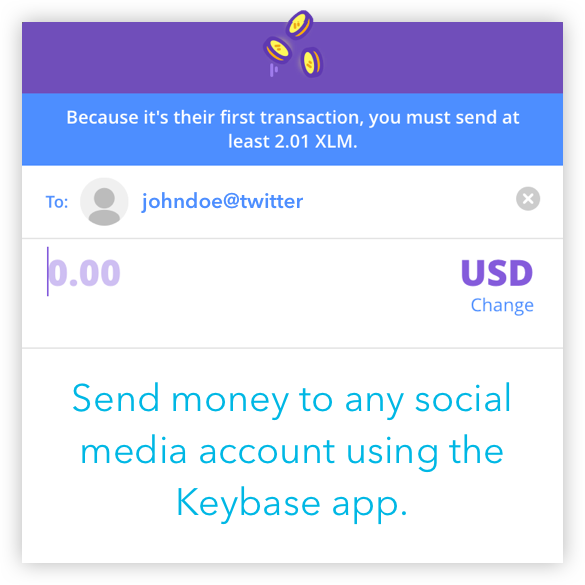
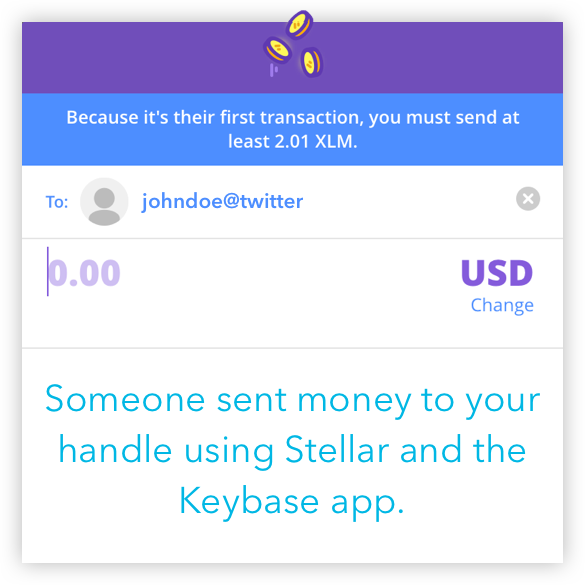
Updates per community feedback. Changed messaging on first panes. Added copy about no banks necessary. Updated hamburger menu to match blue-white theme. Removed any line breaks causing odd character rendering on select android devices and brave browser.

Changed region(s): [[0.0615, 0.6462, 0.9231, 0.8923]]

diff --git a/index.html b/index.html
@@ -67,18 +67,18 @@
                                 <ul class="nav navbar-nav navbar-left text-right no-margin alt-font text-normal width-40 sm-width-100 sm-text-left" data-in="fadeIn" data-out="fadeOut">
                                     <!-- start menu item -->
                                     <li class="dropdown text-light-gray megamenu-fw">
-                                        <a href="#navbar-collapse-toggle-1">How it Works</a><i class="fa fa-angle-down dropdown-toggle" data-toggle="dropdown" aria-hidden="true"></i>
+                                        <a href="#navbar-collapse-toggle-1">How it Works</a><i class="fa dropdown-toggle" data-toggle="dropdown" aria-hidden="true"></i>
                                     </li>
 
                                     <li class="dropdown text-light-gray megamenu-fw">
-                                        <a href="#Send">Send</a><i class="fa fa-angle-down dropdown-toggle" data-toggle="dropdown" aria-hidden="true"></i>
+                                        <a href="#Send">Send</a><i class="fa dropdown-toggle" data-toggle="dropdown" aria-hidden="true"></i>
                                     </li>
                                     <!-- end menu item -->
                                 </ul>
                                 <ul class="nav navbar-nav navbar-right no-margin alt-font text-normal width-40 sm-width-100" data-in="fadeIn" data-out="fadeOut">
-                                    <li class="dropdown simple-dropdown"><a href="#Claim" title="Claim Money">Claim</a><i class="fa fa-angle-down dropdown-toggle" data-toggle="dropdown" aria-hidden="true"></i>
+                                    <li class="dropdown simple-dropdown"><a href="#Claim" title="Claim Money">Claim</a><i class="fa dropdown-toggle" data-toggle="dropdown" aria-hidden="true"></i>
                                     </li>
-                                    <li class="dropdown simple-dropdown"><a href="#About-Stellar" title="The Internet of Value">What is Stellar?</a><i class="fa fa-angle-down dropdown-toggle" data-toggle="dropdown" aria-hidden="true"></i>
+                                    <li class="dropdown simple-dropdown"><a href="#About-Stellar" title="The Internet of Value">What is Stellar?</a><i class="fa dropdown-toggle" data-toggle="dropdown" aria-hidden="true"></i>
                                     </li>
                                 </ul>
                             </div>
@@ -99,14 +99,16 @@
             <div class="container">
                 <div class="row">
                     <div class="col-md-8 col-sm-11 col-xs-12 center-col text-center sm-margin-eight-top margin-four-bottom text-stellar-blue wow fadeInUp" data-wow-delay="0.0s" style="padding-top: 0px;">
-                      <h3 class="wow fadeIn"> Send money to anyone <br> by only knowing their social handle. </h3>
+                      <!-- <h3 class="wow fadeIn"> Send money to anyone <br> by only knowing their social handle. </h3> -->
+                      <h3 class="wow fadeIn"> You just got money sent to your social handle, and your day just got a little more Stellar.</h3>
+                      <!-- <h5 class="wow fadeIn"> No banks, nearly no fees, and instant settlement. Welcome to the future of digital payments.</h5> -->
                     </div>
                 </div>
                 <div class="row equalize xs-equalize-auto">
                     <!-- start features box item -->
                     <div class="col-md-4 col-sm-4 col-xs-12 sm-margin-four-bottom wow fadeInUp" data-wow-delay="0.2s">
                         <div class="text-center">
-                            <a href="SleepDoc-Case.html"><img src="images/SD-How-Tile1.png" alt=""></a>
+                            <a href="#Send"><img src="images/SD-How-Tile1.png" alt=""></a>
 
                         </div>
                     </div>
@@ -114,7 +116,7 @@
                     <!-- start features box item -->
                     <div class="col-md-4 col-sm-4 col-xs-12 sm-margin-four-bottom xs-no-margin-bottom wow fadeInUp" data-wow-delay="0.4s">
                         <div class="text-center">
-                            <a href="Clique-Case.html"><img src="images/SD-How-Tile2.png" alt=""></a>
+                            <a href="#Claim"><img src="images/SD-How-Tile2.png" alt=""></a>
 
                         </div>
                     </div>
@@ -122,7 +124,7 @@
                     <!-- start features box item -->
                     <div class="col-md-4 col-sm-4 col-xs-12 sm-margin-four-bottom wow fadeInUp" data-wow-delay="0.6s">
                         <div class="text-center">
-                            <a href="Structureworks-Case.html"><img src="images/SD-How-Tile3.png" alt=""></a>
+                            <a href="#About-Stellar"><img src="images/SD-How-Tile3.png" alt=""></a>
 
                         </div>
                     </div>
@@ -130,7 +132,7 @@
                 </div>
                 <div class="row">
                     <div class="col-md-8 col-sm-11 col-xs-12 center-col text-center text-stellar-blue wow fadeInUp no-margin-bottom" data-wow-delay="0.8s" style="padding-top: 60px;">
-                        <h6 class="font-weight-300 no-margin-bottom">Stellar Day is an initiative encouraging giving to people you value, whether it’s a podcaster you like, a friend, or a family member. Thanks to emerging tech, it’s now as simple as sending an email.</h6>
+                        <h6 class="font-weight-300 no-margin-bottom">Stellar Day is an initiative encouraging giving to people you value, whether it’s a podcaster you like, a friend, or a family member. Thanks to emerging tech, you can now do that with no bank account, nearly no fees, and instant transactions. <a href="#Send">Continue on </a> to learn how to give someone else a Stellar Day.</h6>
                     </div>
               </div>
             </div>
@@ -145,8 +147,8 @@
             <div class="container">
                 <div class="row">
                     <div class="col-md-8 col-sm-11 col-xs-12 center-col margin-four-bottom no-margin-top text-center text-stellar-blue wow fadeInUp" data-wow-delay="0.0s" style="padding-top: 0px;">
-                      <span class="after-before-separator text-extra-small alt-font text-stellar-blue letter-spacing-3 xs-letter-spacing-0 text-uppercase margin-20px-bottom xs-margin-5px-bottom display-inline-block">send</span>
-                      <h3 class="wow fadeIn"> Sending money is now as <br> simple as sending an email.</h3>
+                      <span class="after-before-separator text-medium-small alt-font text-stellar-blue letter-spacing-3 xs-letter-spacing-0 text-uppercase margin-20px-bottom xs-margin-5px-bottom display-inline-block">send</span>
+                      <h3 class="wow fadeIn"> Send someone money like you send them email.</h3>
                     </div>
                 </div>
                 <div class="row equalize xs-equalize-auto">
@@ -179,10 +181,10 @@
                 <div class="row">
                     <div class="col-md-8 col-sm-11 col-xs-12 center-col text-center text-stellar-blue wow fadeInUp no-margin-bottom" style="padding-top: 60px;">
                       <div class="wow fadeInUp" data-wow-delay="0.2s">
-                          <span class="text-extra-small alt-font text-stellar-blue letter-spacing-3 xs-letter-spacing-0 text-uppercase margin-40px-bottom xs-margin-5px-bottom display-inline-block">Need help getting lumens (XLM) or learning about them? Check out this <a href="https://www.stellar.org/lumens/">FAQ site</a>, or ask about it in the <a href="https://www.reddit.com/r/stellar">daily chat on r/stellar.</a></span>
+                          <span class="text-small alt-font text-stellar-blue letter-spacing-3 xs-letter-spacing-0 text-uppercase margin-40px-bottom xs-margin-5px-bottom display-inline-block">Need help getting lumens (XLM) or learning about them? Check out this <a href="https://www.stellar.org/lumens/" target="_blank">FAQ site</a>, or ask about it in the <a href="https://www.reddit.com/r/stellar" target="_blank">daily chat on r/stellar.</a></span>
                       </div>
                       <div class="wow fadeInUp" data-wow-delay="0.4s">
-                          <h6 class="font-weight-300 no-margin-bottom">Using the <a href="https://keybase.io/download">Keybase App</a> (available for Mac, Windows, iOS, Android, and CLI) and the power of the <a href="https://stellar.org">Stellar Network</a>, sending money is as easy a sending a message. Welcome to the internet of value.</h6>
+                          <h6 class="font-weight-300 no-margin-bottom">Using the <a href="https://keybase.io/download" target="_blank">Keybase App</a> (available for Mac, Windows, iOS, Android, and CLI) and the power of the <a href="https://stellar.org" target="_blank">Stellar Network</a>, sending money is just like sending a message. No banks necessary. Welcome to the internet of value.</h6>
                       </div>
                     </div>
               </div>
@@ -195,8 +197,8 @@
             <div class="container">
                 <div class="row">
                     <div class="col-md-8 col-sm-11 col-xs-12 center-col margin-four-bottom no-margin-top text-center text-stellar-blue wow fadeInUp" data-wow-delay="0.0s" style="padding-top: 0px;">
-                      <span class="after-before-separator text-extra-small alt-font text-stellar-blue letter-spacing-3 xs-letter-spacing-0 text-uppercase margin-20px-bottom xs-margin-5px-bottom display-inline-block">claim</span>
-                      <h3 class="wow fadeIn"> Prove that you own the account <br> and the money is yours.</h3>
+                      <span class="after-before-separator text-medium-small alt-font text-stellar-blue letter-spacing-3 xs-letter-spacing-0 text-uppercase margin-20px-bottom xs-margin-5px-bottom display-inline-block">claim</span>
+                      <h3 class="wow fadeIn"> Prove that you own the account  and the money is yours.</h3>
                     </div>
                 </div>
                 <div class="row equalize xs-equalize-auto">
@@ -204,7 +206,6 @@
                     <div class="col-md-4 col-sm-4 col-xs-12 sm-margin-four-bottom wow fadeInUp" data-wow-delay="0.2s">
                         <div class="text-center">
                             <a href="https://keybase.io/download" target="_blank"><img src="images/SD-Claim-Tile1.png" alt=""></a>
-
                         </div>
                     </div>
                     <!-- end feature box item -->
@@ -228,7 +229,7 @@
                 </div>
                 <div class="row">
                     <div class="col-md-8 col-sm-11 col-xs-12 center-col text-center text-stellar-blue wow fadeInUp no-margin-bottom" data-wow-delay="0.8s" style="padding-top: 60px;">
-                        <h6 class="font-weight-300 no-margin-bottom"><a href="https://keybase.io/download">Keybase</a> leverages <a href="https://en.wikipedia.org/wiki/Public-key_cryptography">public key cryptography</a> to prove that you are the true owner of a social media account. Once you prove it, the funds are all yours.</h6>
+                        <h6 class="font-weight-300 no-margin-bottom"><a href="https://keybase.io/download" target="_blank">Keybase</a> leverages <a href="https://en.wikipedia.org/wiki/Public-key_cryptography" target="_blank">public key cryptography</a> to prove that you are the true owner of a social media account. Once you prove it, the funds are all yours.</h6>
                     </div>
                 </div>
             </div>
@@ -240,37 +241,37 @@
             <div class="container">
                 <div class="row">
                     <div class="col-md-8 col-sm-11 col-xs-12 center-col margin-four-bottom no-margin-top text-center text-stellar-blue wow fadeInUp" data-wow-delay="0.0s" style="padding-top: 0px;">
-                      <span class="after-before-separator text-extra-small alt-font text-stellar-blue letter-spacing-3 xs-letter-spacing-0 text-uppercase margin-20px-bottom xs-margin-5px-bottom display-inline-block">The Stellar Network</span>
-                      <h3 class="wow fadeIn"> Welcome to the internet of value, <br> powered by Stellar.</h3>
+                      <span class="after-before-separator text-medium-small alt-font text-stellar-blue letter-spacing-3 xs-letter-spacing-0 text-uppercase margin-20px-bottom xs-margin-5px-bottom display-inline-block">The Stellar Network</span>
+                      <h3 class="wow fadeIn"> Welcome to the internet of value, powered by Stellar.</h3>
                     </div>
                 </div>
                 <div class="row equalize xs-equalize-auto">
                     <!-- start features box item -->
                     <div class="col-md-4 col-sm-4 col-xs-12 sm-margin-four-bottom wow fadeInUp" data-wow-delay="0.2s">
                         <div class="text-center">
-                            <a href="https://www.stellar.org/how-it-works/stellar-basics/#how-it-works"><img src="images/SD-About-Tile1.png" alt=""></a>
+                            <a href="https://www.stellar.org/how-it-works/stellar-basics/#how-it-works" target="_blank"><img src="images/SD-About-Tile1.png" alt=""></a>
                         </div>
                     </div>
                     <!-- end feature box item -->
                     <!-- start features box item -->
                     <div class="col-md-4 col-sm-4 col-xs-12 sm-margin-four-bottom xs-no-margin-bottom wow fadeInUp" data-wow-delay="0.4s">
                         <div class="text-center">
-                            <a href="https://www.stellar.org/how-it-works/stellar-basics/#how-it-works"><img src="images/SD-About-Tile2.png" alt=""></a>
-
+                            <a href="https://www.stellar.org/how-it-works/stellar-basics/#how-it-works" target="_blank"><img src="images/SD-About-Tile2.png" alt=""></a>
                         </div>
                     </div>
                     <!-- end feature box item -->
                     <!-- start features box item -->
                     <div class="col-md-4 col-sm-4 col-xs-12 sm-margin-four-bottom wow fadeInUp" data-wow-delay="0.6s">
                         <div class="text-center">
-                            <a href="https://www.stellar.org/how-it-works/stellar-basics/#how-it-works"><img src="images/SD-About-Tile3.png" alt=""></a>
+                            <a href="https://www.stellar.org/how-it-works/stellar-basics/#how-it-works" target="_blank"><img src="images/SD-About-Tile3.png" alt=""></a>
                         </div>
                     </div>
                     <!-- end feature box item -->
                 </div>
                 <div class="row">
                     <div class="col-md-8 col-sm-11 col-xs-12 center-col text-center text-stellar-blue wow fadeInUp no-margin-bottom" data-wow-delay="0.8s" style="padding-top: 60px;">
-                        <h6 class="font-weight-300 no-margin-bottom">The <a href="https://stellar.org">Stellar Network</a> enables you to send money anywhere in the world, settling payments in seconds and for fractions of a cent. Suddenly sending money sounds a lot more like email.</h6>
+                        <h6 class="font-weight-300 margin-four-bottom">The <a href="https://stellar.org" target="_blank">Stellar Network</a> enables you to send money anywhere in the world, settling payments in seconds and for fractions of a cent. Suddenly sending money sounds a lot more like email.</h6>
+                        <span class="text-medium-small alt-font text-stellar-blue letter-spacing-3 xs-letter-spacing-0 text-uppercase margin-40px-bottom xs-margin-5px-bottom display-inline-block">Curious to know more? <a href="https://stellar.org" target="_blank">Click here</a> to learn about how this is all possible.</span>
                     </div>
               </div>
             </div>

diff --git a/css/style.css b/css/style.css
@@ -179,6 +179,7 @@ h6 {font-size:25px; line-height:30px}
 /* text size */
 .text-extra-small {font-size:11px; line-height:14px}
 .text-small {font-size:12px; line-height:20px}
+.text-medium-small {font-size:14px; line-height:22px}
 .text-medium {font-size:16px; line-height:23px}
 .text-large {font-size:18px; line-height:26px}
 .text-extra-large {font-size: 20px; line-height:26px}
@@ -2351,7 +2352,7 @@ header nav.navbar .navbar-nav > li > a, nav.navbar.bootsnav ul.nav > li > a{colo
 header nav.navbar.white-link .navbar-nav > li > a, nav.navbar.bootsnav.white-link ul.nav > li > a,
 header nav.navbar.white-link .header-social-icon a,  nav.navbar.bootsnav.white-link .header-social-icon a,
 header nav.navbar.white-link .header-searchbar a,  nav.navbar.bootsnav.white-link .header-searchbar a,
-header nav.navbar.bootsnav ul.nav.white-link > li > a,  nav.navbar.white-link .heder-menu-button a {color: #979696}
+header nav.navbar.bootsnav ul.nav.white-link > li > a,  nav.navbar.white-link .heder-menu-button a {color: #A1A1A1} /* here's a spot */
 
 header.sticky nav.navbar-fixed-top.header-light-transparent.white-link .navbar-nav > li > a,
 header.sticky nav.navbar-fixed-top.header-light-transparent.white-link .header-searchbar a,
@@ -2432,8 +2433,8 @@ header nav .navbar-nav > li:last-child a { margin-right: 0;}
 .navbar-fixed-bottom, .navbar-fixed-top {z-index: 9999}
 header nav.navbar-default .navbar-nav > li > a:hover, header nav.navbar-default .navbar-nav > li > a:focus, header nav.navbar-default .navbar-nav > li.active > a {border-bottom-color: #232323}
 header nav .navbar-nav.text-normal > li > a {font-weight: 600; font-size: 12px }
-.navbar-nav > li { position: inherit;}
-.navbar-nav > li.dropdown > .fa { display: none}
+.navbar-nav > li { position: inherit; }
+.navbar-nav > li.dropdown > .fa { display: none }
 .navbar-nav > li ul { margin: 0; padding: 0;}
 .navbar-toggle {border-radius: 0; margin-right: 0;}
 .mobile-toggle {display: block}
@@ -2444,6 +2445,14 @@ header nav .navbar-nav.text-normal > li > a {font-weight: 600; font-size: 12px }
 header nav .brand-logo { padding-top: 20px; padding-bottom: 20px;}
 header.sticky nav .brand-logo {padding-top: 15px; padding-bottom: 15px;}
 header.sticky nav.navbar.navbar-default.navbar-fixed-top ul.nav > li > a, header.sticky nav.navbar.navbar-default.navbar-top ul.nav > li > a { padding: 20px 0 20px; }
+
+
+@media all and (max-width:950px) {
+
+	.navbar-nav > li { position: inherit; background-color: white; }
+	header nav.navbar.bootsnav ul.nav.white-link > li > a,  nav.navbar.white-link .heder-menu-button a {color: #00B7E4}
+	.navbar-nav > li:hover { background-color: #00B7E4}
+}
 
 /* mega menu */
 nav .accordion-menu { position: inherit;}
@@ -2627,7 +2636,7 @@ header nav.nav-box-width {padding: 0 50px;}
 .big-menu-links {list-style: none; margin: 0; padding: 0;}
 .big-menu-links li {margin-bottom: 15px; display: block; width: 100%; float: left}
 .big-menu-links li a {font-size: 50px;line-height: 1.5; color: #676767; float: left}
-.big-menu-links li a:after {width: 0; background: #ff214f; height: 3px; content: ""; display: block; transition-duration: 0.5s; -moz-transition-duration: 0.5s; -webkit-transition-duration: 0.5s; -o-transition-duration: 0.5s; -ms-transition-duration: 0.5s;}
+.big-menu-links li a:after {width: 0; background: #fff; height: 3px; content: ""; display: block; transition-duration: 0.5s; -moz-transition-duration: 0.5s; -webkit-transition-duration: 0.5s; -o-transition-duration: 0.5s; -ms-transition-duration: 0.5s;}
 .big-menu-links li a:hover {color: #ddd;}
 .big-menu-links li a:hover:after {width: 100px; transition-duration: 0.5s; -moz-transition-duration: 0.5s; -webkit-transition-duration: 0.5s; -o-transition-duration: 0.5s; -ms-transition-duration: 0.5s;}
 .big-menu-right.open {transform: translateX(0) scaleX(1); -moz-transform: translateX(0) scaleX(1); -webkit-transform: translateX(0) scaleX(1); -o-transform: translateX(0) scaleX(1); -ms-transform: translateX(0) scaleX(1); opacity: 1; z-index: 9999}
@@ -3084,7 +3093,7 @@ header.sticky nav.navbar.brand-center ul.nav > li > a {padding: 20px; margin: 0 
 .hover-option10 .grid-item figure:hover .portfolio-icon, .hover-option10 .grid-item figure:hover .portfolio-hover-content { -webkit-transform: translateY(0); -ms-transform: translateY(0); -moz-transform: translateY(0); transform: translateY(0); }
 .hover-option10 .grid-item .portfolio-icon a {margin: 0 7px; height: 50px; width: 50px; display: inline-block; border-radius: 100%; border: 2px solid rgba(255,255,255,1); box-sizing: border-box; vertical-align: top; text-align:center; color: #fff}
 .hover-option10 .grid-item .portfolio-icon a:hover {color: #232323; background: #fff; border-radius: 5px;}
-.hover-option10 .grid-item .portfolio-icon a:hover i {color: #232323;;}
+.hover-option10 .grid-item .portfolio-icon a:hover i {color: #232323;}
 .hover-option10 .grid-item .portfolio-icon i.fa-link {font-size:22px; position: relative; top: 14px}
 .hover-option10 .grid-item .portfolio-icon i.fa-search {font-size:20px; position: relative; top: 13px}
 .container .hover-option10 .grid-item .portfolio-icon i.fa-link {font-size:16px; position: relative; top: 10px}
